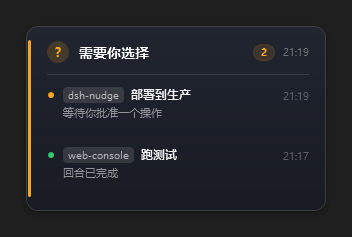
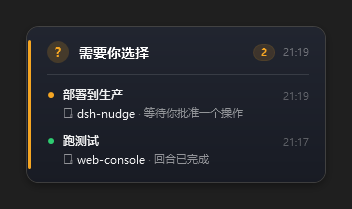
feat: 去掉滚动条，多条提醒逐条列出并逐行标出项目与任务

diff --git a/lib/index.js b/lib/index.js
@@ -84,7 +84,7 @@ export const DEFAULTS = {
 	/** 事件合并窗口（毫秒）：窗口内的多条事件合并成一张卡片并累计计数 */
 	mergeWindowMs: 1200,
 	/** 一张卡片最多列出的条目数，超出显示 "+N more" */
-	maxItems: 5,
+	maxItems: 8,
 	/** 关键工具调用失败是否也算「失败」提醒 */
 	alertOnToolError: true,
 	/** 静音时间段，`HH:MM-HH:MM`，支持跨零点 */
@@ -302,7 +302,7 @@ export class PopupRunner {
 				? ordered.slice(0, limit).map((item) => ({
 						...item,
 						detail: condenseText(item.detail),
-						rowProject: multiProject ? item.project ?? '' : ''
+						rowProject: item.project ?? ''
 					}))
 				: [],
 			headline: focus.headline,

diff --git a/VERIFY.md b/VERIFY.md
@@ -41,7 +41,7 @@ ALL PASS (23 checks)
 & $node .\scripts\selftest.mjs   # 已经包含这一步，产物在 screenshots\*.png
 ```
 
-期望：`completed.png` 436×150、`needs_choice.png` 436×237、`failed.png` 436×181（412 = 卡片 384 宽 + 两侧 14px 阴影留白，再各加 12px 底色留白），均 >4KB。
+期望：`completed.png` 436×150、`needs_choice.png` 436×209、`failed.png` 436×181（412 = 卡片 384 宽 + 两侧 14px 阴影留白，再各加 12px 底色留白），均 >4KB。
 
 ## 2.5 窗口可拖动 / 可缩放
 
@@ -50,11 +50,12 @@ ALL PASS (23 checks)
 - 在感应区按下 → `ReleaseCapture()` + `SendMessage(hwnd, WM_NCLBUTTONDOWN, HT<edge>, 0)`，由系统接管缩放；卡片内部按下 → `DragMove()`，位移 < 4px 视为点击（回 DSH + 复制提醒 + 关闭）。
 - 内容自适应可用 `-SnapshotWidth <px>` 验证：同一份 payload 在 240 / 300 / 384 / 560 宽下都能排版，宽度严格跟随参数（图片宽 = 卡片宽 + 28 阴影留白 + 24 底边 = +52）。
 
-## 2.6 溢出滚动条
+## 2.6 多条提醒的可读性
 
-- 窗口比内容矮时不裁切，正文可滚：`ScrollViewer` 纵向 `Auto`、横向 `Disabled`。
-- 滚动条的布局宽度被 ScrollViewer 锁在 17px（`ScrollBar.MinWidth` 由系统滚动条宽决定，样式里写 `Width` 无效，实测 `ActualWidth=17`、`MinWidth=17`）。因此把"看得见的部分"做成模板内 5px 右对齐的 Grid：外观是细条，布局仍占 17px。
-- 像素校验（`screenshots/scrollbar.png`，卡片高 168、内容溢出）：滑块在 x≈404..408（5px 宽），y 37..104（68px 高），亮度 >95；滑轨同宽，亮度 50–70；内容放得下时该区域亮度与卡片底色一致（46），即滚动条不显示。
+- 多条提醒不再折叠成一行：每条渲染成两行，第一行是任务名（12px SemiBold）+ 时间，第二行是「📁 项目 · 明细」（10.5px）。
+- 单条提醒：任务名（或精简后的错误）做 13px 主角行，项目单独一行（11px，`#8AFFFFFF`）。
+- 不加滚动条：卡片按内容长高；窗口 `MinHeight` 跟随内容所需高度，把窗口拖矮时不会裁掉内容。
+- 快照校验：`screenshots/multi.png` 436×329（4 条 / 3 个项目，逐行可见项目与任务）、`screenshots/single.png` 436×209（单条：错误 + 项目 · 任务）。
 
 ## 3.' 卡片图内容自证（纯像素，不需要屏幕）
 
@@ -82,9 +83,9 @@ foreach ($f in 'completed','needs_choice','failed') {
 期望（实测）：
 
 ```
-completed:    436x150 distinct=133 dark=16077 accent=70 text=135
-needs_choice: 436x237 distinct=229 dark=25107 accent=183 text=248
-failed:       436x181 distinct=147 dark=19057 accent=132 text=401
+completed:    436x150 distinct=135 dark=16071 accent=70 text=135
+needs_choice: 436x209 distinct=229 dark=22121 accent=155 text=258
+failed:       436x181 distinct=147 dark=19044 accent=132 text=401
 ```
 
 判定标准：

diff --git a/README.md b/README.md
@@ -104,7 +104,7 @@ powershell -NoProfile -ExecutionPolicy Bypass -File .\scripts\uninstall.ps1
 
 - **可拖动、可缩放**：按住卡片拖动即可换位置；把鼠标移到四边或四角（8px 感应区，光标会变成缩放箭头）拖动即可改大小，最小 300×118。卡片是透明的无边框窗口，所以缩放走的是 `ReleaseCapture` + `WM_NCLBUTTONDOWN`，交给系统原生缩放循环处理。
 - **内容自适应**：卡片宽度不再写死，文字、清单、项目标签都按当前可用宽度重新换行排版；拖大不会留白，拖小自动折行。
-- **拖小后内容不会被裁掉**：正文在 `ScrollViewer` 里，窗口比内容矮时出现一条 5px 宽、右对齐的深色细滚动条（滑轨 `#12FFFFFF`，滑块 `#3DFFFFFF`，圆角 2.5），只在溢出时出现，内容够高时完全不显示。
+- **每条都写清项目和任务**：多条提醒时逐条列出，每条第一行是任务名，第二行是「📁 项目 · 明细」；单条时任务名做主标题、项目单独一行。不加滚动条，卡片按内容长高，窗口最小高度也跟随内容，拖不小到看不清。
 - **不抢焦点**：卡片 `ShowActivated=false`，不会打断你正在敲的字。
 - **自动消失**：`staySeconds` 秒后淡出（到点关闭，无残留进程）。
 - **点一下**：把 DSH 窗口切到前台，并把提醒内容（标题 + 明细）放进剪贴板。
